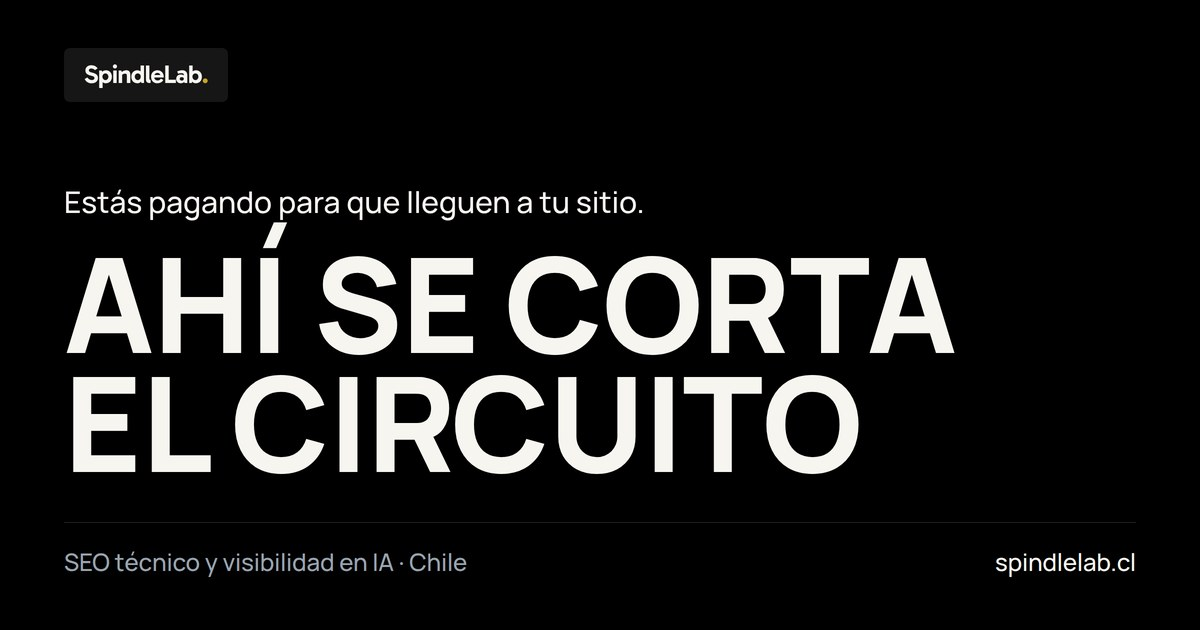
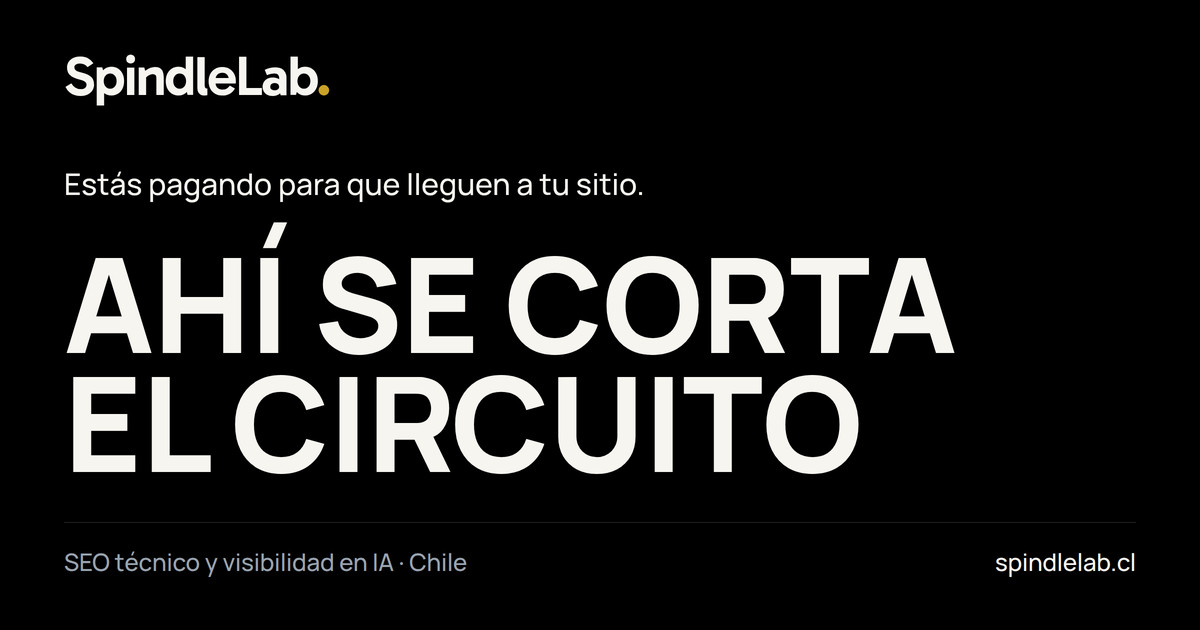
Imagen OG v3 corregida tras la revisión independiente
El punto dorado del wordmark salía apagado por el submuestreo de croma del
JPEG (#8D834E en vez de #C9A227) y el wordmark quedaba bajo el mínimo del
manual dentro de una placa. Ahora: wordmark tipográfico puro de 263 px,
exportación 4:4:4 (78 px de oro a 1200, 16 a 552), aire bajo el ojillo,
titular de B sin el punto final que el sitio no tiene, hueco de 16 px.
render.mjs y reducir.py rinden desde el repo.

Claude-Session: https://claude.ai/code/session_013G3435NG2HDeV2jLgLGnZL

Changed region(s): [[0.0308, 0.2714, 0.555, 0.3619], [0.0308, 0.0905, 0.2775, 0.181]]

diff --git a/marketing/brand/og-v3/b-obra.html b/marketing/brand/og-v3/b-obra.html
@@ -1,13 +1,13 @@
 <!doctype html><html lang="es"><head><meta charset="utf-8"><link rel="stylesheet" href="base.css"><style>
 body { padding: 44px 48px 48px; display: flex; flex-direction: column; }
 .cab { display: flex; justify-content: space-between; align-items: center; }
-.titular { margin-top: 34px; white-space: nowrap; font-size: 46px; font-weight: 500; line-height: 1.08; letter-spacing: -0.02em; max-width: 900px; }
-.fila { margin-top: auto; display: flex; gap: 12px; height: 343px; }
+.titular { margin-top: 34px; white-space: nowrap; font-size: 46px; font-weight: 500; line-height: 1.08; letter-spacing: -0.02em; }
+.fila { margin-top: auto; display: flex; gap: 16px; height: 340px; }
 .fila img { height: 100%; width: auto; border-radius: 6px; display: block; }
 .url { font-size: 24px; font-weight: 500; }
 </style></head><body>
 <div class="cab"><span class="mod wm">SpindleLab<i>.</i></span><span class="url gris">spindlelab.cl</span></div>
-<p class="titular">Desarrollo web que los motores de IA pueden leer.</p>
+<p class="titular">Desarrollo web que los motores de IA pueden leer</p>
 <div class="fila">
   <img src="mock-combeau-fotografia-alto.jpg" alt=""><img src="mock-combeau-modelo-ancho.jpg" alt=""><img src="mock-verifica-y-cumple-alto.jpg" alt="">
 </div>

diff --git a/marketing/brand/og-v3/base.css b/marketing/brand/og-v3/base.css
@@ -5,6 +5,6 @@
 html, body { width: 1200px; height: 630px; overflow: hidden; background: #000; color: #F7F5F0; font-family: 'Manrope', sans-serif; -webkit-font-smoothing: antialiased; }
 .wm { font-family: 'Gabarito', sans-serif; font-weight: 800; letter-spacing: -0.035em; line-height: 1; }
 .wm i { font-style: normal; color: #C9A227; }
-.mod { display: inline-flex; align-items: center; height: 54px; padding: 0 20px; background: #161616; border-radius: 6px; font-size: 26px; }
+.mod { display: inline-block; font-size: 56px; }   /* wordmark tipográfico puro, sin placa (manual §02); 263 px de tinta, sobre el mínimo de 120 */
 .display { font-weight: 800; text-transform: uppercase; line-height: 0.9; letter-spacing: -0.005em; }
 .gris { color: #9AA4B0; }

diff --git a/marketing/brand/og-v3/a-titular.html b/marketing/brand/og-v3/a-titular.html
@@ -1,6 +1,6 @@
 <!doctype html><html lang="es"><head><meta charset="utf-8"><link rel="stylesheet" href="base.css"><style>
 body { padding: 48px 64px 52px; display: flex; flex-direction: column; }
-.ojillo { margin-top: auto; font-size: 30px; font-weight: 500; margin-bottom: 22px; }
+.ojillo { margin-top: auto; font-size: 30px; font-weight: 500; margin-bottom: 40px; }
 .display { font-size: 132px; }
 .pie { margin-top: 40px; display: flex; justify-content: space-between; align-items: baseline; font-size: 24px; font-weight: 500; padding-top: 22px; border-top: 1px solid rgba(247,245,240,.12); }
 </style></head><body>

diff --git a/marketing/brand/og-v3/reducir.py b/marketing/brand/og-v3/reducir.py
@@ -1,0 +1,8 @@
+# Reduce las piezas de 2x a 1200x630. JPEG con croma completo (subsampling=0): con el 4:2:0
+# por defecto, el punto dorado del wordmark (5 px) salía apagado, #8D834E en vez de #C9A227.
+import sys
+from PIL import Image
+for n in sys.argv[1:]:
+    Image.open(f'{n}@2x.png').convert('RGB').resize((1200, 630), Image.LANCZOS).save(
+        f'{n}.jpg', 'JPEG', quality=90, subsampling=0, optimize=True, progressive=True)
+    print(n, 'ok')

diff --git a/marketing/brand/og-v3/README.md b/marketing/brand/og-v3/README.md
@@ -3,14 +3,35 @@
 Reemplaza a `spindlelab-astro/public/assets/img/og-marca.jpg`, que es de la marca anterior
 (Gabarito en el titular, rótulo en mayúsculas espaciadas, píldora, verde azulado).
 
-- `a-titular` — el titular de la home en display. Pensada como imagen por defecto del sitio.
-- `b-obra` — el titular de Desarrollo web con tres obras reales en dispositivo (Raigal fuera:
-  sin su rótulo de concepto sería mostrar una clínica inventada como trabajo). Para páginas
-  de Desarrollo web y Trabajo.
+| Pieza | Uso | og:image:alt propuesto |
+|---|---|---|
+| `a-titular.jpg` | **por defecto en todo el sitio** | «SpindleLab. Estás pagando para que lleguen a tu sitio. Ahí se corta el circuito.» |
+| `b-obra.jpg` | solo Desarrollo web y Trabajo | «Tres sitios hechos por SpindleLab: el de fotografía y el book de modelo de Bernardo Combeau (cliente) y Verifica y Cumple, producto propio» |
 
-Cómo se rinde: `node render.mjs a-titular b-obra` (Chromium a 2x) y se reduce a 1200×630 con
-Lanczos. Las fuentes van al lado del HTML (Manrope variable, Gabarito para el wordmark).
-Ningún texto es nuevo: todos existen en el sitio v3.
+- **Textos:** el ojillo y el titular de A son los del hero de la home, tal cual; el de B es el
+  h1 de Desarrollo web, tal cual. La línea de pie de A («SEO técnico y visibilidad en IA ·
+  Chile») es un descriptor adaptado del title de la home, no una afirmación nueva.
+- **Raigal no está en B:** sin su rótulo de concepto, una tarjeta que circula sola mostraría
+  una clínica inventada como trabajo real (y el rótulo no se lee a tamaño de LinkedIn).
+- **Un solo oro:** el punto del wordmark (78 px de oro a 1200, 16 a 552). El lima de la
+  captura de Verifica y Cumple no es oro por tono (73° contra 46°).
+- **Límite conocido:** en la miniatura cuadrada de WhatsApp/iMessage (recorte centrado de
+  120 px) no entra la marca; el dominio lo muestra la plataforma. Meterla ahí sería otra
+  composición, no un parche.
 
-Para usarla en el sitio hay que tocar `Layout.astro` (hoy fija `og-marca.jpg?v=4` para todas
-las páginas), y la spec v3 §6 lo protege: lo autoriza Ramón.
+## Cómo se rinde
+
+```
+CHROME=/opt/pw-browsers/chromium-1194/chrome-linux/chrome node render.mjs a-titular b-obra
+python3 reducir.py a-titular b-obra
+```
+(En la Mac, sin `CHROME=`: usa el Chromium de Playwright.) `reducir.py` exporta con croma
+completo: con el 4:2:0 por defecto, el punto dorado salía apagado (#8D834E en vez de
+#C9A227). Ese fue el bloqueante de la revisión independiente del 6-oct, ya corregido.
+
+## Para usarla en el sitio
+
+Hoy `Layout.astro` fija `og-marca.jpg?v=4` para todas las páginas, y la spec v3 §6 lo
+protege: lo autoriza Ramón. El cambio mínimo es una prop opcional `ogImage`/`ogImageAlt`
+(con el valor actual por defecto, para que el sitio publicado no cambie) y archivos con
+nombre nuevo (`og-v3.jpg`, `og-v3-desarrollo-web.jpg`): `/assets/*` se cachea 7 días.
